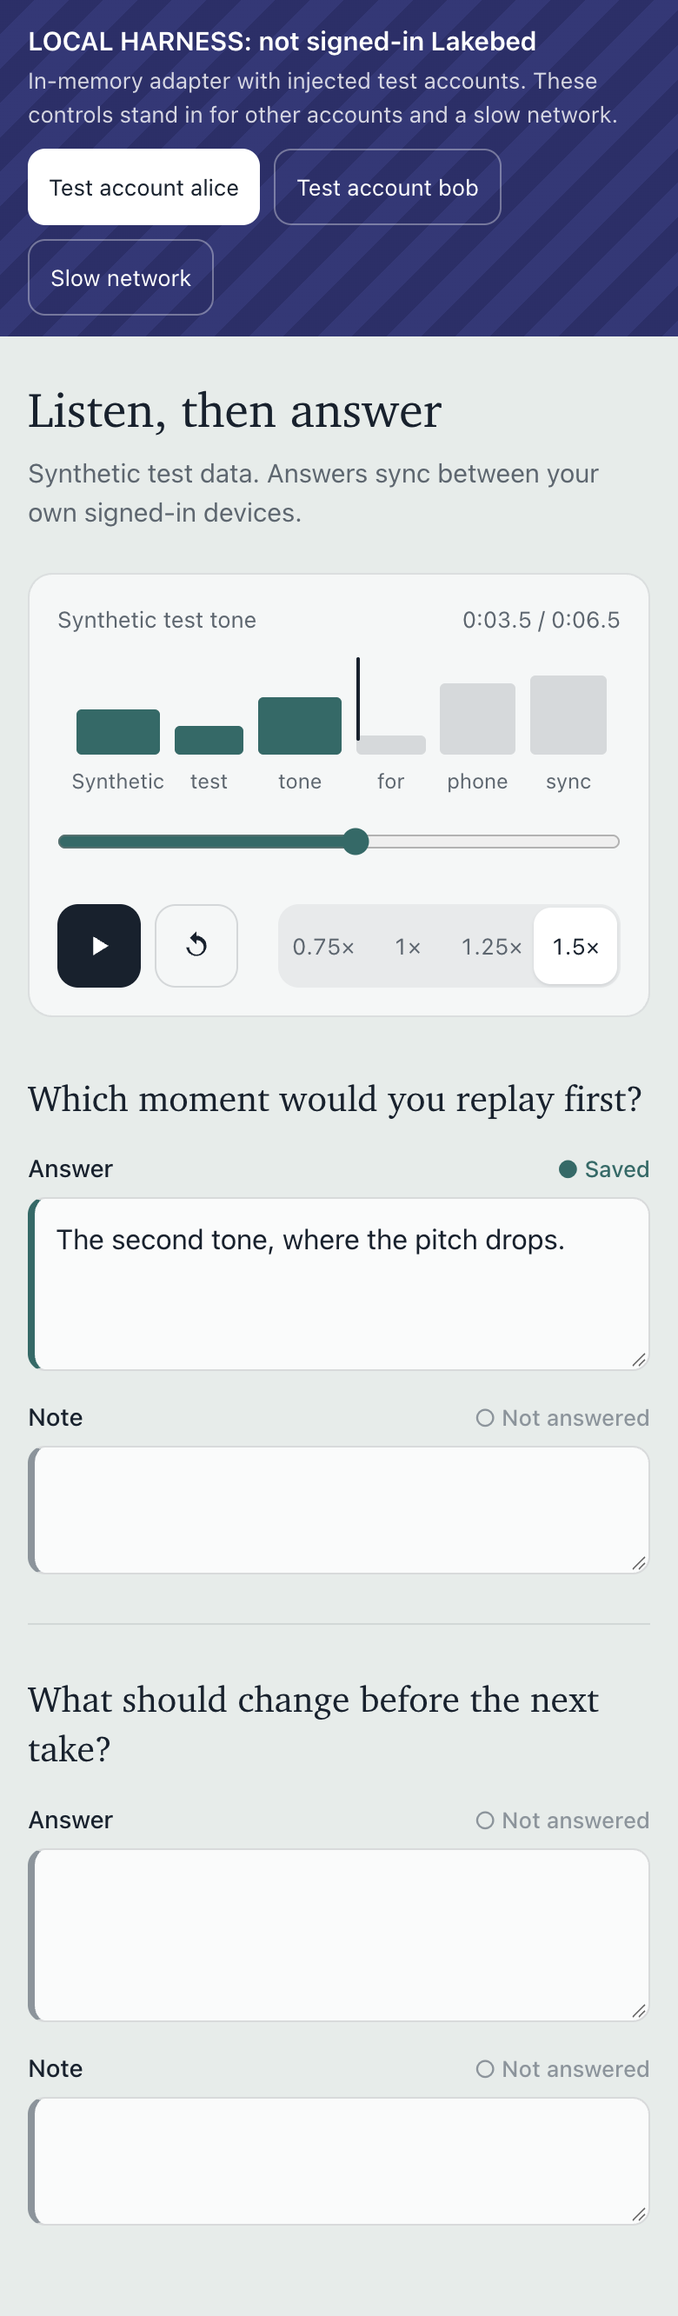
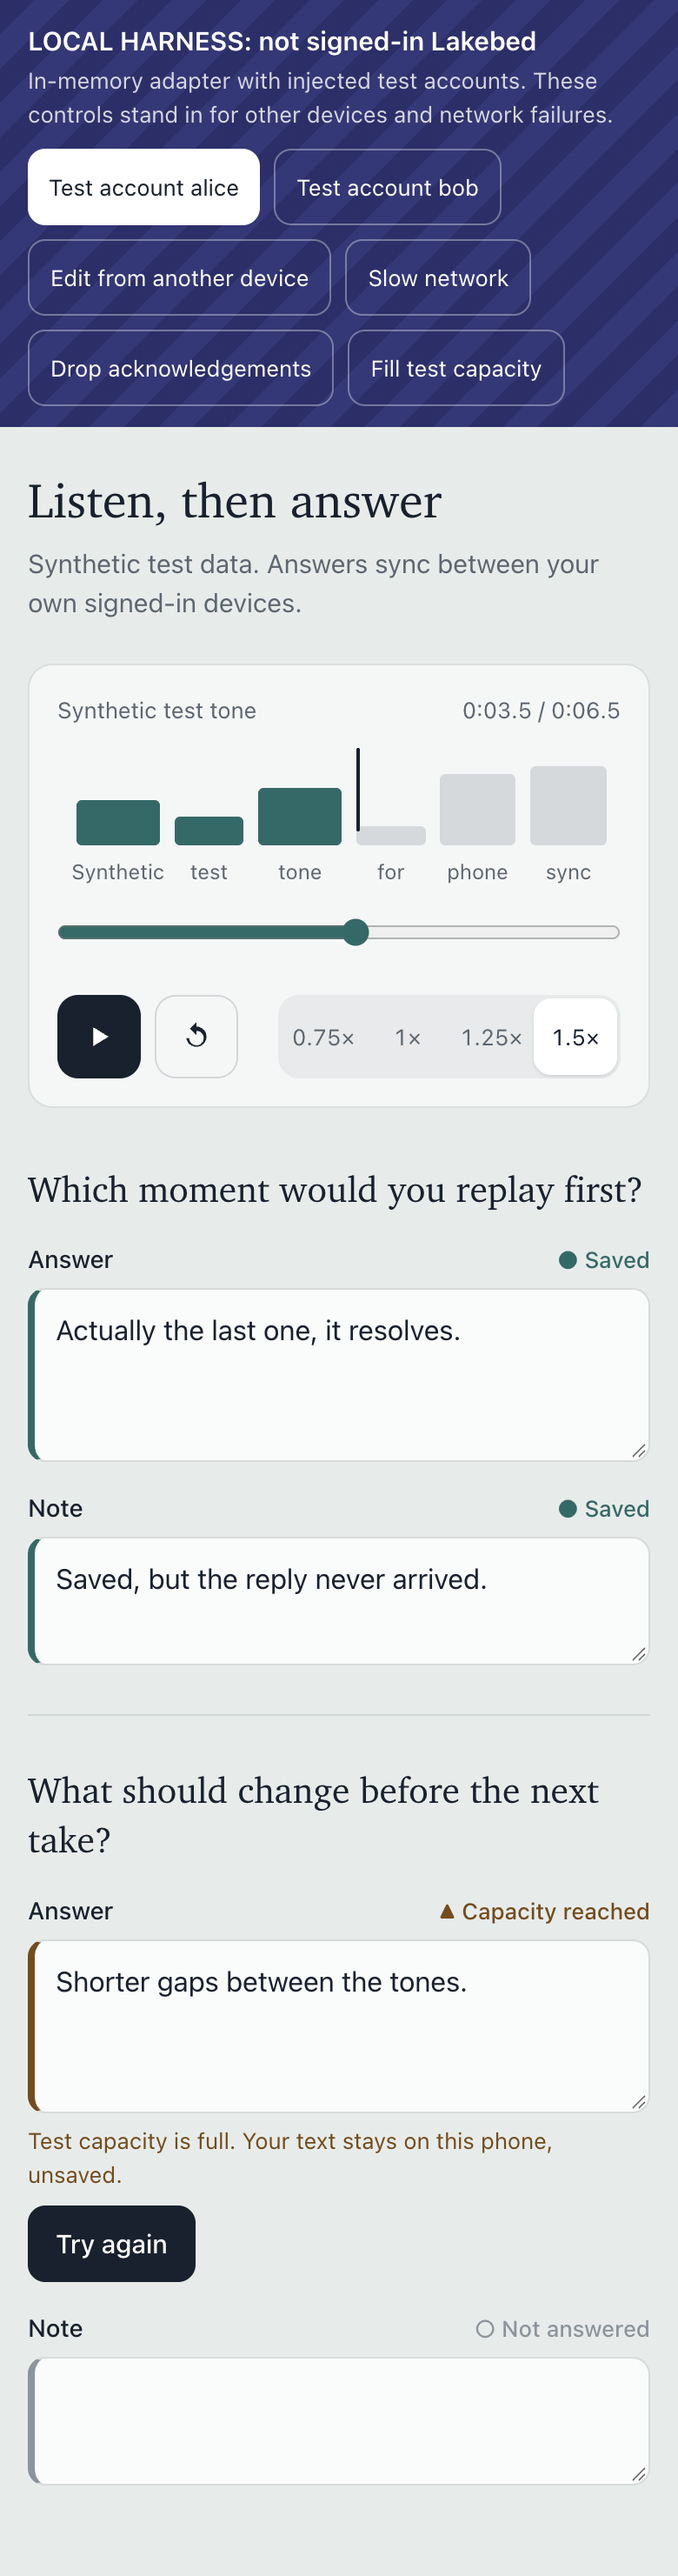
feat(phone-sync): P2a-states conflict, capacity, uncertain and account freeze
Stacked on P2a (save/saved). Adds the remaining C2 client obligations:
- conflict: every competing value with its device, resolved by a choice or new text that
  sends the complete sorted parent set (canonical + all pending);
- capacity reached: CAPACITY keeps the draft, visibly unsaved, with Try again;
- not confirmed: a lost acknowledgement (or a send in flight at refresh/switch) stays
  uncertain until the receipt query reconciles it; nothing is resent first;
- account switch: the old account's drafts and outbox are frozen (late results never write)
  and reconciled by receipt on return.
Harness gains other-device edit, drop-acknowledgement and fill-capacity controls; tests,
proof screenshots (1280/390) and GIFs cover each state.

diff --git a/examples/phone-sync-prototype/capsule/client/sync.tsx b/examples/phone-sync-prototype/capsule/client/sync.tsx
@@ -1,6 +1,6 @@
 /** @jsxImportSource preact */
 import type { ComponentChildren } from "preact";
-import { useEffect, useState } from "preact/hooks";
+import { useEffect, useRef, useState } from "preact/hooks";
 import { FIXTURE } from "../shared/protocol";
 import { Player, press } from "./player";
 
@@ -9,10 +9,11 @@ import { Player, press } from "./player";
 export type Value = { id: string; payload: string; deviceId: string };
 export type FieldHead = { questionId: string; field: string; revision: number; canonical: Value | null; pending: Value[] };
 export type Receipt = { outcome: "accepted" | "conflict"; eventId: string; revision: number; canonicalEventId: string | null };
-export type Port = { account: string; heads: FieldHead[] | undefined; save(op: object): Promise<Receipt> };
+export type Port = { account: string; heads: FieldHead[] | undefined; save(op: object): Promise<Receipt>;
+  resolve(op: object): Promise<Receipt>; useReceipt(deviceId: string, opId: string): Receipt | null | undefined };
 // sent = outbox entry; landed = receipt revision the head must reach before the draft is dropped.
-type Draft = { text: string; base: number; sent?: { opId: string }; landed?: number };
-type State = "empty" | "draft" | "saving" | "saved";
+type Draft = { text: string; base: number; capacity?: true; sent?: { opId: string; uncertain?: true }; landed?: number };
+type State = "empty" | "draft" | "saving" | "saved" | "conflict" | "capacity" | "uncertain";
 
 const serif = "[font-family:Charter,'Iowan_Old_Style','Palatino_Linotype',Georgia,serif]";
 const QUESTIONS = [["q-orbit-r1", "Which moment would you replay first?"], ["q-tide-r1", "What should change before the next take?"]];
@@ -21,6 +22,9 @@ const STATES: Record<State, [label: string, glyph: string, tone: string, detail?
   draft: ["Unsaved draft", "◐", "#9A5B0B", "Only on this phone until you save."],
   saving: ["Saving…", "◌", "#1D6B67"],
   saved: ["Saved", "●", "#1D6B67"],
+  conflict: ["Conflict", "◆", "#A12C4C", "Another version was saved first. Keep one, or edit the text and use that."],
+  capacity: ["Capacity reached", "▲", "#7A4A0E", "Test capacity is full. Your text stays on this phone, unsaved."],
+  uncertain: ["Not confirmed", "?", "#4B47A0", "The save may have landed. Checking before anything is sent again."],
 };
 
 function deviceId() {
@@ -28,34 +32,48 @@ function deviceId() {
   if (!localStorage.getItem(key)) localStorage.setItem(key, `device-${crypto.randomUUID()}`);
   return localStorage.getItem(key)!;
 }
-// P2a-states adds conflict, capacity and lost-acknowledgement (receipt) handling on top of this.
 function load(key: string): Draft | null {
   const draft = JSON.parse(localStorage.getItem(key) ?? "null") as Draft | null;
-  return draft?.sent ? { text: draft.text, base: draft.base } : draft;
+  // A send in flight at refresh or account switch is a lost acknowledgement until a receipt says otherwise.
+  return draft?.sent ? { ...draft, sent: { opId: draft.sent.opId, uncertain: true } } : draft;
+}
+
+function Reconcile({ port, device, opId, settle }: { port: Port; device: string; opId: string; settle(r: Receipt | null): void }) {
+  const receipt = port.useReceipt(device, opId);
+  useEffect(() => { if (receipt !== undefined) settle(receipt); }, [receipt]);
+  return null;
 }
 
 function Field({ port, device, questionId, field }: { port: Port; device: string; questionId: string; field: "answer" | "note" }) {
   const key = `nl-phone-sync:${port.account}:${questionId}:${field}`, id = `${questionId}-${field}`;
   const [draft, setDraft] = useState(() => load(key));
+  const alive = useRef(true);
+  useEffect(() => () => { alive.current = false; }, []);
+  // After unmount (account switch) late results never write: the old account's outbox stays frozen.
   const write = (next: Draft | null) => {
+    if (!alive.current) return;
     if (next) localStorage.setItem(key, JSON.stringify(next));
     else localStorage.removeItem(key);
     setDraft(next);
   };
   const head = port.heads?.find(h => h.questionId === questionId && h.field === field), revision = head?.revision ?? 0;
   useEffect(() => { if (draft?.landed && revision >= draft.landed) write(null); }, [draft, revision]);
-  const state: State = draft?.sent || draft?.landed ? "saving" : draft ? "draft" : head?.canonical ? "saved" : "empty";
+  const state: State = draft?.sent ? (draft.sent.uncertain ? "uncertain" : "saving") : draft?.landed ? "saving"
+    : draft?.capacity ? "capacity" : head?.pending.length ? "conflict" : draft ? "draft" : head?.canonical ? "saved" : "empty";
   const text = draft ? draft.text : head?.canonical?.payload ?? "";
+  const values = head ? [...(head.canonical ? [head.canonical] : []), ...head.pending] : [];
+  const frontier = values.map(v => v.id).sort();
 
-  async function send(payload: string) {
-    const opId = `op-${crypto.randomUUID()}`, base = draft?.base ?? revision;
+  async function send(payload: string, parents?: string[]) {
+    const opId = `op-${crypto.randomUUID()}`, base = parents ? revision : draft?.base ?? revision;
     write({ text: payload, base, sent: { opId } });
     const op = { protocolVersion: 2, contentRevision: FIXTURE.contentRevision, dashboardId: FIXTURE.dashboardId,
-      questionId, field, deviceId: device, opId, kind: payload ? "save" : "clear", baseRevision: base, payload, parents: [] };
+      questionId, field, deviceId: device, opId, kind: parents ? "resolve" : payload ? "save" : "clear",
+      baseRevision: base, payload, parents: parents ?? [] };
     try {
-      write({ text: payload, base, landed: (await port.save(op)).revision });
-    } catch {
-      write({ text: payload, base });
+      write({ text: payload, base, landed: (await (parents ? port.resolve(op) : port.save(op))).revision });
+    } catch (error) {
+      write(String(error).includes("CAPACITY") ? { text: payload, base, capacity: true } : { text: payload, base, sent: { opId, uncertain: true } });
     }
   }
 
@@ -69,11 +87,29 @@ function Field({ port, device, questionId, field }: { port: Port; device: string
           <span aria-hidden="true">{glyph}</span> {label}
         </span>
       </div>
-      <textarea id={id} value={text} rows={field === "answer" ? 3 : 2} readOnly={state === "saving"}
+      <textarea id={id} value={text} rows={field === "answer" ? 3 : 2} readOnly={state === "saving" || state === "uncertain"}
         onInput={e => write({ ...(draft ?? { base: revision }), text: (e.currentTarget as HTMLTextAreaElement).value })}
         className="mt-1.5 block w-full resize-y rounded-[10px] border border-[#15212E]/15 border-l-4 border-l-[var(--tone)] bg-white/80 px-3 py-2.5 text-[16px] leading-relaxed transition-[border-color] duration-200 read-only:text-[#15212E]/60 focus:outline-none focus-visible:ring-2 focus-visible:ring-[#1D6B67]/40" />
       {detail && <p className="mt-1.5 text-[13px] text-[var(--tone)]">{detail}</p>}
-      {state === "draft" && <button type="button" onClick={() => send(text)} className={`${action} bg-[#15212E] text-white`}>Save</button>}
+      {(state === "draft" || state === "capacity") && (
+        <button type="button" onClick={() => send(text)} className={`${action} bg-[#15212E] text-white`}>{state === "capacity" ? "Try again" : "Save"}</button>
+      )}
+      {state === "conflict" && head && (
+        <div className="mt-3 space-y-2">
+          {values.map(v => (
+            <div key={v.id} data-value={v.payload} className="flex items-center gap-3 rounded-[10px] bg-[#A12C4C]/[0.06] py-2 pl-3 pr-2">
+              <div className="min-w-0 flex-1">
+                <p className="whitespace-pre-wrap break-words text-[15px]">{v.payload || "(cleared)"}</p>
+                <p className="text-[12px] text-[#5B6670]">{v === head.canonical ? "Saved version" : "Competing edit"}, {v.deviceId === device ? "this phone" : "another device"}</p>
+              </div>
+              <button type="button" onClick={() => send(v.payload, frontier)} className={`${action} mt-0 shrink-0 border border-[#A12C4C]/40 text-[#A12C4C]`}>Keep this</button>
+            </div>
+          ))}
+          <button type="button" onClick={() => send(text, frontier)} className={`${action} bg-[#A12C4C] text-white`}>Use the text above</button>
+        </div>
+      )}
+      {draft?.sent?.uncertain && <Reconcile port={port} device={device} opId={draft.sent.opId}
+        settle={r => write(r ? { text: draft.text, base: draft.base, landed: r.revision } : { text: draft.text, base: draft.base })} />}
     </div>
   );
 }

diff --git a/examples/phone-sync-prototype/harness/backend.ts b/examples/phone-sync-prototype/harness/backend.ts
@@ -1,9 +1,9 @@
 import { useEffect, useState } from "preact/hooks";
-import type { FieldHead, Port } from "../capsule/client/sync";
+import type { FieldHead, Port, Receipt } from "../capsule/client/sync";
 import * as reads from "../capsule/server/reads";
 import { schema } from "../capsule/server/schema";
 import * as store from "../capsule/server/store";
-import { FIXTURE } from "../capsule/shared/protocol";
+import { FIXTURE, LIMITS } from "../capsule/shared/protocol";
 import { memoryDb } from "../memory-db";
 
 // LOCAL HARNESS: not signed-in Lakebed. Accounts are injected strings and store.ts/reads.ts run over
@@ -12,17 +12,36 @@ export type Harness = ReturnType<typeof createHarness>;
 export function createHarness() {
   const mem = memoryDb(schema), listeners = new Set<() => void>();
   for (const account of ["alice", "bob"]) void mem.run(db => store.enroll(db, account));
+  let other = 0;
   const h = {
-    calls: [] as Record<string, unknown>[], latency: 0,
+    calls: [] as Record<string, unknown>[], dropAcks: false, latency: 0,
     heads: (account: string) => mem.run(db => reads.heads(db, account, FIXTURE.dashboardId)) as unknown as Promise<FieldHead[]>,
+    receipt: (account: string, deviceId: string, opId: string) =>
+      mem.run(db => reads.receipt(db, account, FIXTURE.dashboardId, deviceId, opId)),
     subscribe(listener: () => void) { listeners.add(listener); return () => void listeners.delete(listener); },
     notify: () => listeners.forEach(listener => listener()),
+    // Lost acknowledgement: the write commits, the reply is dropped, and receipt reads stay pending.
+    setDropAcks(on: boolean) { h.dropAcks = on; h.notify(); },
     mutate: (write: typeof store.save, account: string) => async (op: object) => {
       h.calls.push(op as Record<string, unknown>);
       await new Promise(r => setTimeout(r, h.latency));
       const receipt = await mem.run(db => write(db, account, op));
       h.notify();
+      if (h.dropAcks) throw new Error("LOCAL HARNESS dropped the acknowledgement after commit");
       return receipt;
+    },
+    // Another device on the same account saves at the current head, so it is accepted.
+    async otherDevice(account: string, questionId: string, field: string, payload: string) {
+      const head = (await h.heads(account)).find(x => x.questionId === questionId && x.field === field);
+      await mem.run(db => store.save(db, account, { protocolVersion: 2, contentRevision: FIXTURE.contentRevision,
+        dashboardId: FIXTURE.dashboardId, questionId, field, deviceId: "harness-other-device", opId: `other-${++other}`,
+        kind: "save", baseRevision: head?.revision ?? 0, payload, parents: [] }));
+      h.notify();
+    },
+    // Moves the deployment counter to the 48-event save limit without writing events.
+    async fillCapacity() {
+      await mem.run(db => db.quota.update(mem.rows("quota")[0]!.id, { eventsTotal: LIMITS.SAVE_EVENT_LIMIT }));
+      h.notify();
     },
   };
   return h;
@@ -36,5 +55,10 @@ function useVersion(h: Harness) {
 export function useHarnessPort(h: Harness, account: string): Port {
   const version = useVersion(h), [heads, setHeads] = useState<FieldHead[]>();
   useEffect(() => { void h.heads(account).then(setHeads); }, [h, account, version]);
-  return { account, heads, save: h.mutate(store.save, account) };
+  return { account, heads, save: h.mutate(store.save, account), resolve: h.mutate(store.resolve, account),
+    useReceipt(deviceId, opId) {
+      const version = useVersion(h), [receipt, setReceipt] = useState<Receipt | null>();
+      useEffect(() => { if (!h.dropAcks) void h.receipt(account, deviceId, opId).then(setReceipt); }, [version]);
+      return receipt;
+    } };
 }

diff --git a/examples/phone-sync-prototype/client.test.tsx b/examples/phone-sync-prototype/client.test.tsx
@@ -84,3 +84,72 @@ test("field states: empty -> unsaved draft -> saving -> saved, refresh-safe", as
   await flush();
   expect([state(Q), text(Q)]).toEqual(["saved", "Invented answer"]);
 });
+
+test("a dirty draft survives a server update; conflict shows both and resolves with the full parent set", async () => {
+  const h = createHarness();
+  await mount(<View h={h} account="alice" />);
+  await type(Q, "Mine");
+  await h.otherDevice("alice", Q, "answer", "Theirs");
+  await flush();
+  expect([state(Q), text(Q)]).toEqual(["draft", "Mine"]);
+  act(() => button(Q, "Save").click()); await flush();
+  expect(state(Q)).toBe("conflict");
+  const values = [...field(Q).querySelectorAll("[data-value]")].map((n: any) => n.getAttribute("data-value"));
+  expect(values).toEqual(["Theirs", "Mine"]);
+  const heads = await h.heads("alice");
+  const frontier = [heads[0]!.canonical!.id, heads[0]!.pending[0]!.id].sort();
+  act(() => field(Q).querySelectorAll("[data-value] button")[0].click()); await flush();
+  expect(h.calls.at(-1)).toMatchObject({ kind: "resolve", parents: frontier, payload: "Theirs", baseRevision: 2 });
+  expect([state(Q), text(Q)]).toEqual(["saved", "Theirs"]);
+});
+
+test("capacity keeps the draft, visibly unsaved", async () => {
+  const h = createHarness();
+  await h.fillCapacity();
+  await mount(<View h={h} account="alice" />);
+  await type(Q, "Kept on this phone");
+  act(() => button(Q, "Save").click()); await flush();
+  expect([state(Q), text(Q)]).toEqual(["capacity", "Kept on this phone"]);
+  expect(win.localStorage.getItem(`nl-phone-sync:alice:${Q}:answer`)).toContain("Kept on this phone");
+});
+
+test("a lost acknowledgement stays uncertain, then reconciles via receipt with no resend", async () => {
+  const h = createHarness();
+  h.setDropAcks(true);
+  await mount(<View h={h} account="alice" />);
+  await type(Q, "Landed quietly");
+  act(() => button(Q, "Save").click()); await flush();
+  expect(state(Q)).toBe("uncertain");
+  h.setDropAcks(false); await flush();
+  expect([state(Q), text(Q), h.calls.length]).toEqual(["saved", "Landed quietly", 1]);
+});
+
+test("account switch freezes the old account's draft and outbox, reconciling on return", async () => {
+  const h = createHarness();
+  h.setDropAcks(true);
+  await mount(<View h={h} account="alice" key="alice" />);
+  await type(Q, "Alice only");
+  await type("q-tide-r1", "Alice note", "note");
+  act(() => button(Q, "Save").click()); await flush();
+  await mount(<View h={h} account="bob" key="bob" />);
+  expect([state(Q), text(Q), text("q-tide-r1", "note")]).toEqual(["empty", "", ""]);
+  h.setDropAcks(false);
+  await mount(<View h={h} account="alice" key="alice" />);
+  expect([state(Q), state("q-tide-r1", "note"), text("q-tide-r1", "note"), h.calls.length]).toEqual(["saved", "draft", "Alice note", 1]);
+});
+
+test("a switch mid-save freezes the outbox; on return it is uncertain until a receipt reconciles it", async () => {
+  const h = createHarness();
+  h.latency = 30;
+  await mount(<View h={h} account="alice" key="alice" />);
+  await type(Q, "In flight");
+  act(() => button(Q, "Save").click());
+  await mount(<View h={h} account="bob" key="bob" />);
+  await new Promise(r => setTimeout(r, 60)); await flush();
+  expect(JSON.parse(win.localStorage.getItem(`nl-phone-sync:alice:${Q}:answer`))).toMatchObject({ text: "In flight", sent: {} });
+  h.setDropAcks(true);
+  await mount(<View h={h} account="alice" key="alice" />);
+  expect(state(Q)).toBe("uncertain");
+  h.setDropAcks(false); await flush();
+  expect([state(Q), text(Q), h.calls.length]).toEqual(["saved", "In flight", 1]);
+});

diff --git a/examples/phone-sync-prototype/harness/main.tsx b/examples/phone-sync-prototype/harness/main.tsx
@@ -16,10 +16,13 @@ function HarnessPage() {
   const banner = (
     <div className="bg-[repeating-linear-gradient(135deg,#2B2F6B_0_14px,#33387A_14px_28px)] px-4 py-3 text-white md:px-8">
       <p className="text-[15px] font-semibold">LOCAL HARNESS: not signed-in Lakebed</p>
-      <p className="mt-0.5 max-w-[70ch] text-[13px] text-white/80">In-memory adapter with injected test accounts. These controls stand in for other accounts and a slow network.</p>
+      <p className="mt-0.5 max-w-[70ch] text-[13px] text-white/80">In-memory adapter with injected test accounts. These controls stand in for other devices and network failures.</p>
       <div className="mt-2.5 flex flex-wrap gap-2">
         {["alice", "bob"].map(a => <button type="button" key={a} aria-pressed={a === account} onClick={() => setAccount(a)} className={control(a === account)}>Test account {a}</button>)}
+        <button type="button" onClick={() => void h.otherDevice(account, "q-orbit-r1", "answer", "Edited on another device")} className={control()}>Edit from another device</button>
         <button type="button" aria-pressed={h.latency > 0} onClick={toggle(() => (h.latency = h.latency ? 0 : 1500))} className={control(h.latency > 0)}>Slow network</button>
+        <button type="button" aria-pressed={h.dropAcks} onClick={toggle(() => h.setDropAcks(!h.dropAcks))} className={control(h.dropAcks)}>Drop acknowledgements</button>
+        <button type="button" onClick={() => void h.fillCapacity()} className={control()}>Fill test capacity</button>
       </div>
     </div>
   );

diff --git a/examples/phone-sync-prototype/capsule/client/index.tsx b/examples/phone-sync-prototype/capsule/client/index.tsx
@@ -4,7 +4,7 @@ import { useEffect, useState } from "preact/hooks";
 import type app from "../server/index";
 import { FIXTURE } from "../shared/protocol";
 import { press } from "./player";
-import { Answers, Shell, type FieldHead, type Port } from "./sync";
+import { Answers, Shell, type FieldHead, type Port, type Receipt } from "./sync";
 
 // Lakebed port for the shared answer UI. Data components mount only after sign-in and enroll().
 const client = createClient<typeof app>();
@@ -27,6 +27,7 @@ function Enrolled({ account }: { account: string }) {
 
 function Synced({ account }: { account: string }) {
   const port: Port = { account, heads: client.useQuery("heads", FIXTURE.dashboardId) as FieldHead[] | undefined,
-    save: client.useMutation("save") as Port["save"] };
+    save: client.useMutation("save") as Port["save"], resolve: client.useMutation("resolve") as Port["resolve"],
+    useReceipt: (deviceId, opId) => client.useQuery("receipt", FIXTURE.dashboardId, deviceId, opId) as Receipt | null | undefined };
   return <Answers port={port} />;
 }

diff --git a/examples/phone-sync-prototype/README.md b/examples/phone-sync-prototype/README.md
@@ -45,13 +45,14 @@ measured state-byte usage.
 P2a client (`capsule/client/`): `player.tsx` renders a ~6.5 s synthetic test tone with
 OfflineAudioContext into a WAV Blob (286,694 bytes measured; no speech, nothing hosted) with invented
 word timings; no autoplay, speed 0.75-1.5, and seeks never start playback. `sync.tsx` shows each
-answer/note as not answered, unsaved draft, saving or saved; drafts live in localStorage per account
-and field and never yield to a server value. Conflict, capacity, lost-acknowledgement (receipt) and
-account-switch freeze land in the stacked P2a-states change. `index.tsx` wires this to Lakebed;
-`harness/` wires the same components to the in-memory adapter on a page labelled LOCAL HARNESS
-(`bun examples/phone-sync-prototype/harness/serve.ts`). `client.test.tsx` is happy-dom component
-evidence and `proof/` holds real-browser screenshots and GIFs from the harness (`proof/capture.mjs`).
-The signed-in Lakebed UI, a real phone and hosted audio transport stay UNRUN until P3.
+answer/note as not answered, unsaved draft, saving, saved, conflict (every competing value, resolved
+with the full sorted parent set), capacity reached (draft kept) or not confirmed (lost acknowledgement,
+settled by `receipt` before anything is resent). Drafts and the outbox live in localStorage per
+account and field. They never yield to a server value, and they stay frozen while another account is open.
+`index.tsx` wires this to Lakebed; `harness/` wires the same components to the in-memory adapter on a
+page labelled LOCAL HARNESS (`bun examples/phone-sync-prototype/harness/serve.ts`). `client.test.tsx`
+is happy-dom component evidence and `proof/` holds real-browser screenshots and GIFs from the harness
+(`proof/capture.mjs`). The signed-in Lakebed UI, a real phone and hosted audio transport stay UNRUN until P3.
 
 Primary evidence: [agents](https://lakebed.dev/agents.md),
 [database](https://docs.lakebed.dev/database/index.md), [auth](https://docs.lakebed.dev/auth/index.md),
